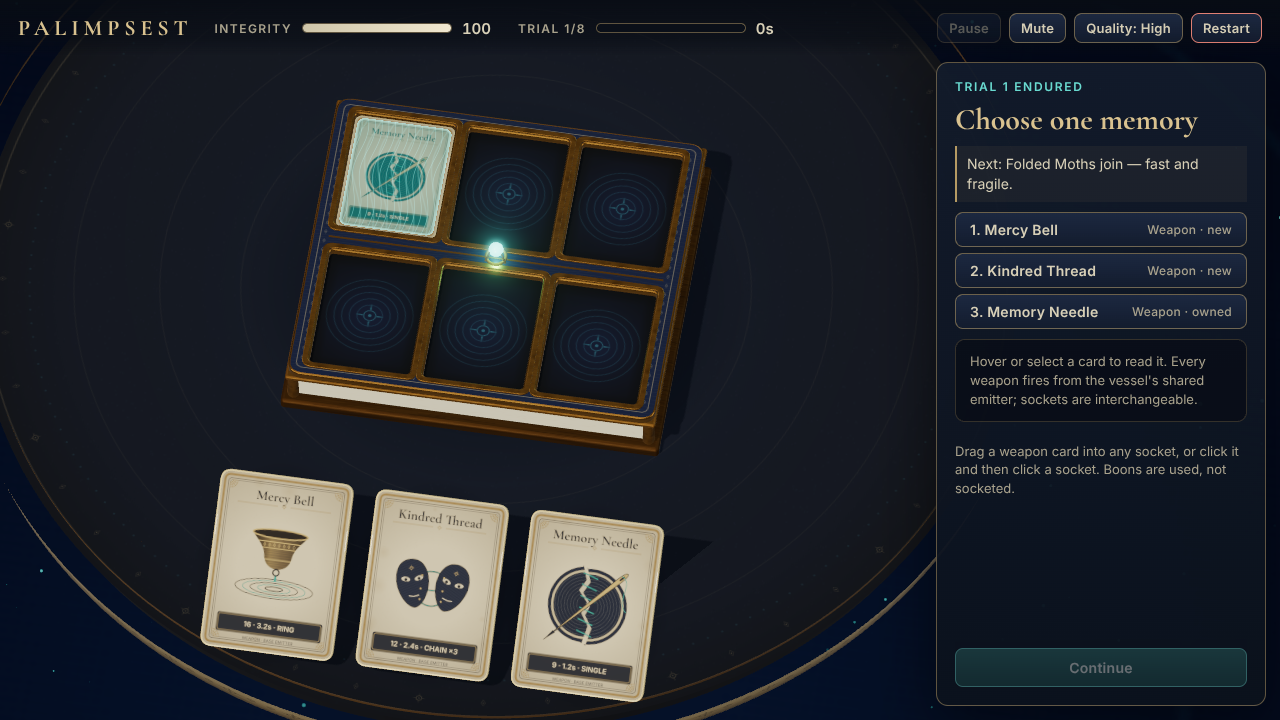
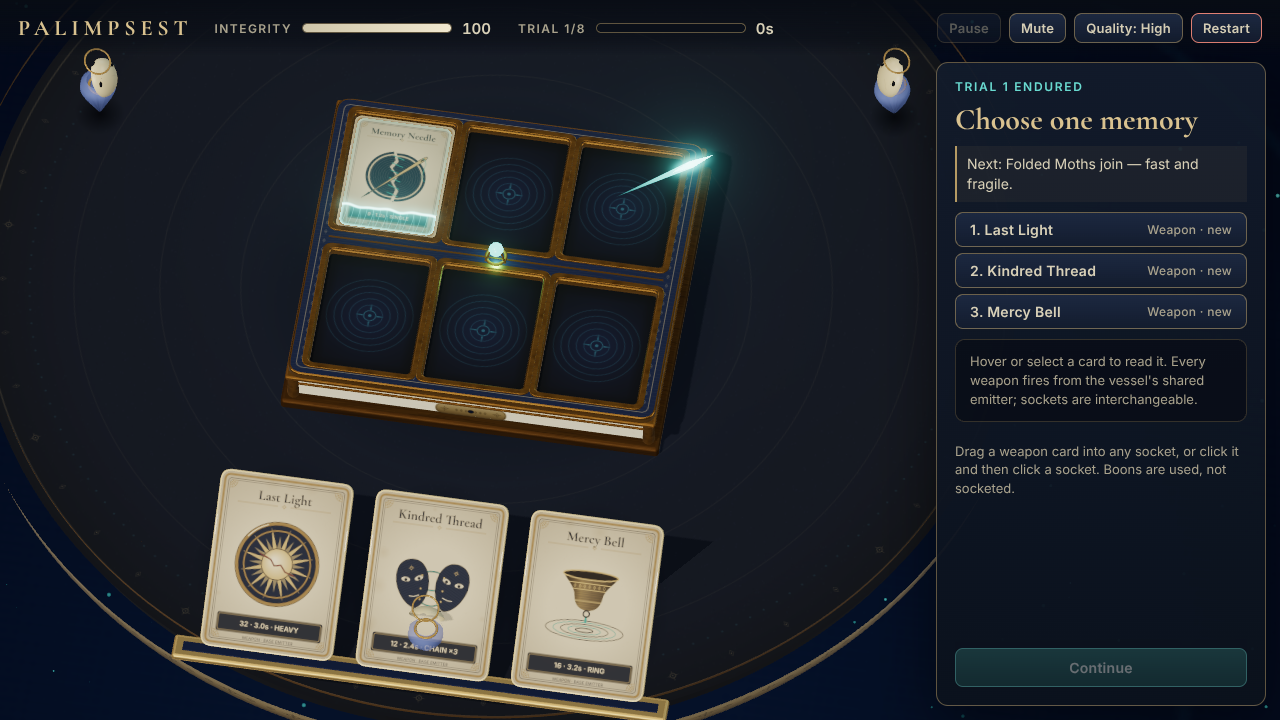
Fix presentation-time landing motes, tune Low quality (no MSAA), volume slider, seed replay, sim-rate metric, full-run harness
Claude-Session: https://claude.ai/code/session_01X78aunXjSk1YMFuBbki7X9

diff --git a/src/main.ts b/src/main.ts
@@ -40,6 +40,7 @@ export class App {
   frameTimes: number[] = [];
   /** [update ms, render-submit ms] per frame, for profiling. */
   cpuTimes: [number, number][] = [];
+  private rateHistory: [number, number][] = [];
   loops = 0;
 
   private lastNow: number | null = null;
@@ -65,6 +66,7 @@ export class App {
       pause: () => this.controller.pause(),
       resume: () => this.resume(),
       toggleMute: () => this.audio.setMuted(!this.audio.muted),
+      setVolume: (v) => this.audio.setVolume(v),
       toggleQuality: () => this.setQuality(this.rig.quality === 'high' ? 'low' : 'high'),
       restart: () => this.restart(),
       selectOffer: (i) => this.selectOffer(i),
@@ -113,7 +115,8 @@ export class App {
   }
 
   // ------------------------------------------------------------------ commands
-  start(seed = freshSeed()): void {
+  /** Normal starts use a fresh seed; `?seed=N` replays a displayed seed (developer replay). */
+  start(seed = Number(new URLSearchParams(location.search).get('seed')) || freshSeed()): void {
     this.audio.unlock();
     this.controller.startRun(seed);
     this.audio.phase('start');
@@ -212,7 +215,10 @@ export class App {
   private onPhase(from: string, to: string): void {
     const running = to === 'COMBAT' || to === 'CLEARING';
     this.audio.setCombatActive(running);
-    if (to === 'DRAFT' && from === 'COMBAT') this.audio.phase('draft');
+    if (to === 'DRAFT' && from === 'COMBAT') {
+      this.audio.phase('draft');
+      this.board.setProgress(this.controller.sim.trialIndex + 1); // one aperture light per endured trial
+    }
     if (to === 'COMBAT' && (from === 'DRAFT' || from === 'PLACEMENT')) {
       this.audio.phase('resume');
       this.cards.clearOffers();
@@ -348,16 +354,29 @@ export class App {
   }
 
   // ------------------------------------------------------------------ frame
+  /** Simulation seconds advanced per wall-clock second over the last ~10 s (1.0 = real time). */
+  simRate(): number {
+    const h = this.rateHistory;
+    if (h.length < 2) return 0;
+    const [w0, s0] = h[0];
+    const [w1, s1] = h[h.length - 1];
+    return w1 > w0 ? +((s1 - s0) / (w1 - w0)).toFixed(3) : 0;
+  }
+
   private frame(nowMs: number): void {
     if (this.disposed) return;
     const now = nowMs / 1000;
     const rawDt = this.lastNow === null ? 0 : now - this.lastNow;
     this.lastNow = now;
     const dt = Math.min(Math.max(rawDt, 0), 0.1);
-    if (rawDt > 0 && rawDt < 1) {
+    if (rawDt > 0) {
       this.frameTimes.push(rawDt * 1000);
       if (this.frameTimes.length > 600) this.frameTimes.shift();
     }
+    if (this.controller.isRunning()) {
+      this.rateHistory.push([now, this.controller.sim.simTime]);
+      while (this.rateHistory.length > 2 && now - this.rateHistory[0][0] > 10) this.rateHistory.shift();
+    } else this.rateHistory.length = 0;
     const t0 = performance.now();
     this.update(this.capture ? 0 : dt, this.capture ? 0 : dt);
     const t1 = performance.now();

diff --git a/tests/simulation.test.ts b/tests/simulation.test.ts
@@ -1,5 +1,5 @@
 import { describe, expect, it } from 'vitest';
-import { BASE, FIXED_DT, TRIALS } from '../src/game/content';
+import { BASE, FIXED_DT, TRIALS, WEAPONS } from '../src/game/content';
 import { FixedStepClock } from '../src/game/clock';
 import { chargeFraction, footprintGap, Simulation, touchesBase } from '../src/game/simulation';
 import type { SimEvent, TrialDef } from '../src/game/types';
@@ -211,15 +211,19 @@ describe('weapons', () => {
     expect(e.hp).toBe(91);
   });
 
-  it('kindred thread hits up to three distinct enemies with 10/7/5 within hop range', () => {
+  it('kindred thread hits up to three distinct enemies with descending hop damage within hop range', () => {
     const sim = quietSim();
     sim.installWeapon(0, 'thread');
+    const [d1, d2, d3] = WEAPONS.thread.chainDamage!;
+    const hop = WEAPONS.thread.chainHopRange!;
     const a = dummy(sim, 0, 6, 100);
-    const b = dummy(sim, 2.0, 6, 100);
-    const c = dummy(sim, 4.0, 6, 100);
-    const far = dummy(sim, 7.5, 6, 100);
-    runTicks(sim, Math.round(2.4 / FIXED_DT));
-    expect([a.hp, b.hp, c.hp, far.hp]).toEqual([90, 93, 95, 100]);
+    const b = dummy(sim, hop * 0.7, 6, 100);
+    const c = dummy(sim, hop * 1.4, 6, 100);
+    const far = dummy(sim, hop * 1.4 + hop + 0.3, 6, 100); // beyond the last hop
+    const fourth = dummy(sim, hop * 1.4 + hop * 0.8, 6.0, 100); // within a hop of the third target, but the chain is capped at 3
+    runTicks(sim, Math.round(WEAPONS.thread.interval / FIXED_DT));
+    expect([a.hp, b.hp, c.hp, far.hp]).toEqual([100 - d1, 100 - d2, 100 - d3, 100]);
+    expect(fourth.hp).toBe(100);
   });
 
   it('kindred thread never revisits an enemy', () => {
@@ -227,21 +231,24 @@ describe('weapons', () => {
     sim.installWeapon(0, 'thread');
     const a = dummy(sim, 0, 6, 100);
     const b = dummy(sim, 1, 6, 100);
-    runTicks(sim, Math.round(2.4 / FIXED_DT));
-    expect([a.hp, b.hp]).toEqual([90, 93]);
+    runTicks(sim, Math.round(WEAPONS.thread.interval / FIXED_DT));
+    const [d1, d2] = WEAPONS.thread.chainDamage!;
+    expect([a.hp, b.hp]).toEqual([100 - d1, 100 - d2]);
   });
 
   it('mercy bell is ready only with an enemy in radius and hits all within it once', () => {
     const sim = quietSim();
     const w = sim.installWeapon(0, 'bell');
-    const out = dummy(sim, 0, 7, 100);
+    const r = WEAPONS.bell.pulseRadius!;
+    const out = dummy(sim, 0, r + 0.3, 100);
     runTicks(sim, 300);
     expect(w.shots).toBe(0);
     expect(chargeFraction(w)).toBe(1);
-    const inA = dummy(sim, 0, 5.5, 100);
+    const inA = dummy(sim, 0, r - 0.2, 100);
     const inB = dummy(sim, -4, 3, 100);
     runTicks(sim, 1);
-    expect([inA.hp, inB.hp, out.hp]).toEqual([86, 86, 100]);
+    const d = WEAPONS.bell.damage;
+    expect([inA.hp, inB.hp, out.hp]).toEqual([100 - d, 100 - d, 100]);
   });
 
   it('polished memory multiplies damage additively', () => {

diff --git a/src/fx/effects.ts b/src/fx/effects.ts
@@ -344,6 +344,7 @@ export class Effects {
   private lastSimTime = 0;
   private presentTime = 0;
   private particleScale = 1;
+  private ambientDust = 260;
   stats = { ribbons: 0, rings: 0, particles: 0, shards: 0, dropped: 0 };
 
   constructor(renderer: THREE.WebGLRenderer, seed: number) {
@@ -369,7 +370,7 @@ export class Effects {
       this.rings.push({ mesh, mat, active: false, born: 0, life: 0.4, r0: 0.5, r1: 6, presentation: false, alpha: 1 });
     }
     this.particles = new ParticlePool(this.root, 1200, false);
-    this.dust = new ParticlePool(this.root, 300, true);
+    this.dust = new ParticlePool(this.root, 420, true);
 
     // shards
     const shardGeo = new THREE.TetrahedronGeometry(0.09, 0);
@@ -429,7 +430,7 @@ export class Effects {
 
   setQuality(particleBudget: number, dustCount: number): void {
     this.particles.budget = particleBudget;
-    this.dust.budget = dustCount;
+    this.ambientDust = dustCount;
   }
 
   setView(camera: THREE.OrthographicCamera, viewportHeight: number): void {
@@ -441,7 +442,7 @@ export class Effects {
   }
 
   private seedDust(): void {
-    for (let i = 0; i < 300; i++) this.spawnDust(this.rng.range(0, 14));
+    for (let i = 0; i < this.ambientDust; i++) this.spawnDust(this.rng.range(0, 14));
   }
 
   private spawnDust(age = 0): void {
@@ -711,7 +712,8 @@ export class Effects {
     r.mesh.position.set(p.x, p.y + 0.05, p.z);
     for (let i = 0; i < 14; i++) {
       const a = (i / 14) * Math.PI * 2;
-      this.particles.emit(new THREE.Vector3(p.x + Math.cos(a) * 1.0, p.y + 0.1, p.z + Math.sin(a) * 1.2), new THREE.Vector3(Math.cos(a) * 0.6, 1.2, Math.sin(a) * 0.6), hdr(0x69dad0, 2), 0.09, 0.5, this.lastSimTime, 0);
+      // presentation-time pool: placement happens while combat is frozen
+      this.dust.emit(new THREE.Vector3(p.x + Math.cos(a) * 1.0, p.y + 0.1, p.z + Math.sin(a) * 1.2), new THREE.Vector3(Math.cos(a) * 0.6, 1.2, Math.sin(a) * 0.6), hdr(0x69dad0, 2), 0.09, 0.5, this.presentTime, 0);
     }
   }
 
@@ -874,7 +876,8 @@ export class Effects {
 
     this.particles.update(simTime, simDt);
     this.dust.update(this.presentTime, presentDt);
-    while (this.dust.liveCount < Math.min(this.dust.budget, 300)) this.spawnDust();
+    // ambient dust keeps ~120 slots free for placement/ceremony motes
+    while (this.dust.liveCount < this.ambientDust) this.spawnDust();
 
     this.stats.ribbons = nr;
     this.stats.rings = ng;

diff --git a/src/ui/hud.ts b/src/ui/hud.ts
@@ -9,6 +9,7 @@ export interface HudCallbacks {
   pause(): void;
   resume(): void;
   toggleMute(): void;
+  setVolume(v: number): void;
   toggleQuality(): void;
   restart(): void;
   selectOffer(i: number): void;
@@ -98,6 +99,7 @@ export class Hud {
         <div class="hud-buttons">
           <button id="btn-pause" title="Pause (P)">Pause</button>
           <button id="btn-mute" title="Mute (M)">Mute</button>
+          <label class="volume" title="Volume"><span class="sr-only">Volume</span><input id="volume" type="range" min="0" max="100" value="70" aria-label="Volume" /></label>
           <button id="btn-quality" title="Toggle quality (Q)">Quality: High</button>
           <button id="btn-restart" class="danger" title="Restart (R)">Restart</button>
         </div>
@@ -213,6 +215,10 @@ export class Hud {
       this.el[id].addEventListener('click', h);
       this.offListeners.push(() => this.el[id].removeEventListener('click', h));
     };
+    const vol = root.querySelector('#volume') as HTMLInputElement;
+    const onVol = () => cb.setVolume(Number(vol.value) / 100);
+    vol.addEventListener('input', onVol);
+    this.offListeners.push(() => vol.removeEventListener('input', onVol));
     delegate('offer-list', 'data-offer', (i) => cb.selectOffer(i));
     delegate('socket-list', 'data-slot', (s) => cb.placeSlot(s));
   }

diff --git a/src/view/enemies.ts b/src/view/enemies.ts
@@ -90,13 +90,14 @@ export class EnemiesView {
     const enamel = track(new THREE.MeshStandardMaterial({ color: 0x1d2a4c, roughness: 0.28, metalness: 0.25 }));
     const darkBrass = track(new THREE.MeshStandardMaterial({ color: 0x8c6a34, metalness: 0.9, roughness: 0.32 }));
 
-    const mk = (geo: THREE.BufferGeometry, mat: THREE.Material, shadow = false) => {
+    const mk = (geo: THREE.BufferGeometry, mat: THREE.Material, _shadow = false) => {
       track(geo);
       const m = new THREE.InstancedMesh(geo, mat, CAPACITY);
       m.instanceMatrix.setUsage(THREE.DynamicDrawUsage);
       m.setColorAt(0, white);
       m.count = 0;
-      m.castShadow = shadow;
+      m.castShadow = false; // crowds use pooled blob shadows, never the realtime shadow map
+      void _shadow;
       // conservative bounds covering the whole arena; instances move every frame
       m.geometry.boundingSphere = new THREE.Sphere(new THREE.Vector3(0, 1, 0), 16);
       m.frustumCulled = false;

diff --git a/src/ui/styles.css b/src/ui/styles.css
@@ -545,11 +545,23 @@ button.danger {
   :root {
     --panel-w: 300px;
   }
+  #hud {
+    gap: 14px;
+  }
+  .brand {
+    display: none;
+  }
   .meter {
     min-width: 0;
   }
   .meter .bar {
-    width: 110px;
+    width: 90px;
+  }
+  .volume input {
+    width: 60px;
+  }
+  .hud-buttons button {
+    white-space: nowrap;
   }
 }
 
@@ -564,4 +576,22 @@ body.capture #pause-overlay,
 body.capture #toast,
 body.capture #inspect {
   display: none !important;
+}
+
+.volume {
+  display: flex;
+  align-items: center;
+}
+
+.volume input {
+  width: 84px;
+  accent-color: var(--turq);
+}
+
+.sr-only {
+  position: absolute;
+  width: 1px;
+  height: 1px;
+  overflow: hidden;
+  clip: rect(0 0 0 0);
 }

diff --git a/src/view/board.ts b/src/view/board.ts
@@ -120,7 +120,7 @@ export class BoardView {
     const darkBrass = track(new THREE.MeshStandardMaterial({ color: 0x8a7041, map: brassTex, metalness: 0.8, roughness: 0.5 }));
     const ceramicTex = tex(art.drawCeramic());
     ceramicTex.wrapS = ceramicTex.wrapT = THREE.RepeatWrapping;
-    const ceramic = track(new THREE.MeshStandardMaterial({ color: 0xffffff, map: ceramicTex, roughness: 0.42, metalness: 0.0 }));
+    const ceramic = track(new THREE.MeshStandardMaterial({ color: 0xd9cfb6, map: ceramicTex, roughness: 0.5, metalness: 0.0 }));
     const enamelTex = tex(art.drawLidEnamel());
     const enamel = track(
       new THREE.MeshPhysicalMaterial({

diff --git a/src/view/quality.ts b/src/view/quality.ts
@@ -13,7 +13,7 @@ export interface QualitySettings {
 
 export const QUALITY: Record<QualityLevel, QualitySettings> = {
   high: { maxPixelRatio: 1.5, shadowMapSize: 2048, bloom: true, bloomStrength: 0.3, msaaSamples: 4, particleBudget: 1200, dustCount: 260 },
-  low: { maxPixelRatio: 1.0, shadowMapSize: 1024, bloom: false, bloomStrength: 0, msaaSamples: 2, particleBudget: 500, dustCount: 90 },
+  low: { maxPixelRatio: 1.0, shadowMapSize: 1024, bloom: false, bloomStrength: 0, msaaSamples: 0, particleBudget: 500, dustCount: 90 },
 };
 
 export const PALETTE = {

diff --git a/src/dev/devApi.ts b/src/dev/devApi.ts
@@ -183,10 +183,12 @@ export function installDevApi(app: App): void {
     },
     perf() {
       const f = app.frameTimes.slice(-240);
+      const simRate = app.simRate();
       const sorted = [...f].sort((a, b) => a - b);
       const avg = f.reduce((s, x) => s + x, 0) / Math.max(1, f.length);
       return {
         frames: f.length,
+        simSecondsPerWallSecond: simRate,
         avgMs: +avg.toFixed(2),
         p95Ms: +(sorted[Math.floor(sorted.length * 0.95)] ?? 0).toFixed(2),
         maxMs: +(sorted[sorted.length - 1] ?? 0).toFixed(2),

diff --git a/src/view/cards.ts b/src/view/cards.ts
@@ -409,7 +409,7 @@ export class CardsView {
    * @param charge per-instance charge fraction from the simulation
    */
   update(presentDt: number, simTime: number, charge: Map<number, number>): void {
-    const dt = Math.min(presentDt, 0.05);
+    const dt = Math.min(presentDt, 0.1); // springs are sub-stepped at 240 Hz below, so this stays stable
     this.railLevel += (this.railTarget - this.railLevel) * (1 - Math.exp(-dt * 7));
     this.rail.visible = this.railLevel > 0.01;
     const h = (CARD_H * TRAY.scale) / 2;
